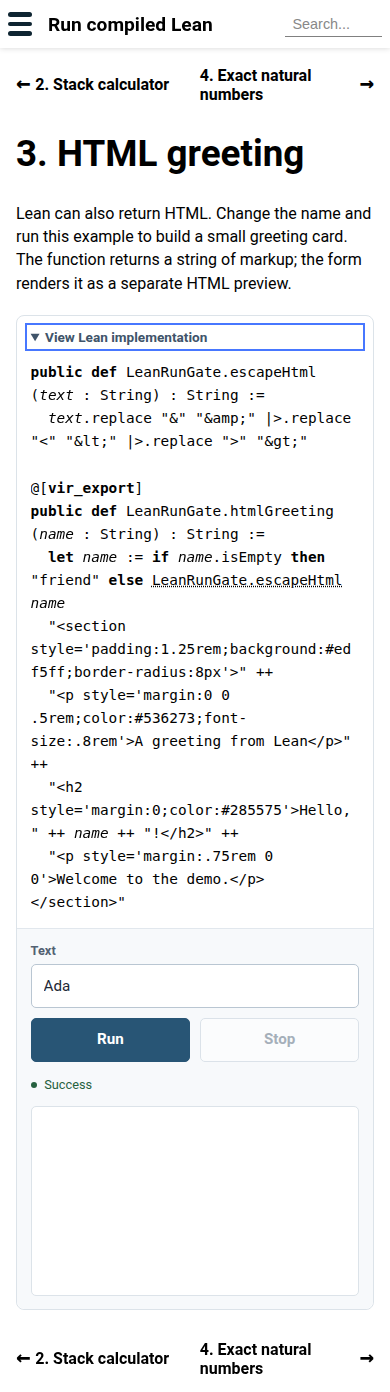
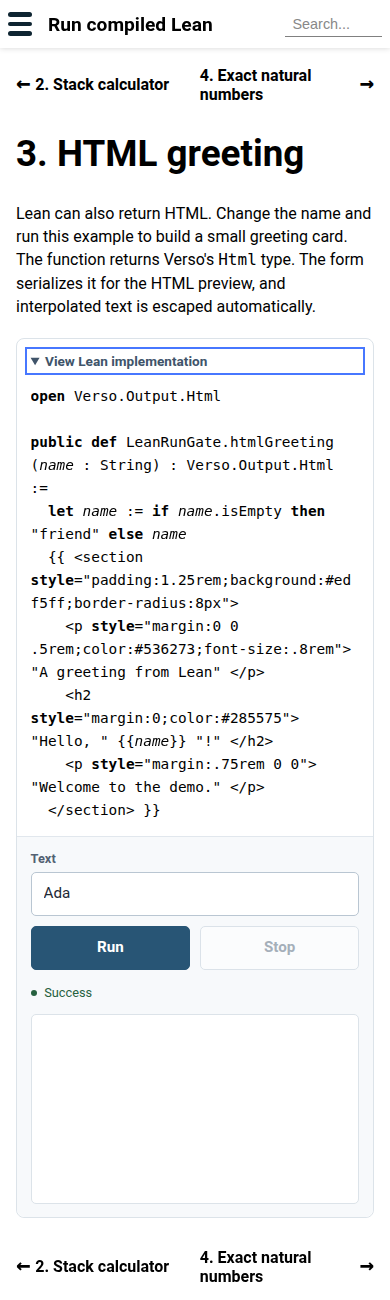
feat: adapt typed HTML entries for Lean Run
This PR adapts public String → Html functions for Lean Run by generating a marked String → String wrapper that calls Verso's Html.asString. Infer HTML presentation for typed entries and use a predictable <entry>.leanRunHtml declaration in the VIR recipe. Retain scalar contracts and the existing sandboxed renderer.

Replace the greeting's manual markup and escaping with Verso HTML syntax. Reuse wrappers for repeated placements, diagnose name conflicts, and reject private, non-executable, and text-presented HTML entries. Document author setup and refresh the live demo, screenshots, evidence, and complete presentation archive.

Validate root lake build, lake test (647 tests plus 10 editor checks), and all 49 native/browser acceptance and mutation checks. Verify typed serialization, escaping, repeated placement, legacy String HTML configuration, compiler contracts, sandbox isolation, cancellation, resource recovery, relocation, invalidation, and restored publication identity.

Changelog-label: changelog-feature

diff --git a/tests/acceptance.py b/tests/acceptance.py
@@ -42,7 +42,7 @@ plan = json.loads((site/'html-multi/lean-run/publication.json').read_text())
 assert plan == json.loads((site/'html-single/lean-run/publication.json').read_text())
 assert plan == json.loads((OUTPUT/'native-only/html-multi/lean-run/publication.json').read_text())
 published = plan['programs']['LeanRunGate.Chapter']
-for declaration, type_name in [('greet', 'String'), ('Stack.run', 'String'), ('htmlGreeting', 'String'), ('double', 'Nat'), ('spin', 'Nat')]:
+for declaration, type_name in [('greet', 'String'), ('Stack.run', 'String'), ('htmlGreeting.leanRunHtml', 'String'), ('double', 'Nat'), ('spin', 'Nat')]:
     contract = published['LeanRunGate.'+declaration]['expectedExport']
     assert contract['declaration'] == 'LeanRunGate.'+declaration
     assert contract['signature']['effect'] == 'pure'
@@ -64,6 +64,8 @@ missing = command(['lake', 'exe', 'lean-run-publication-check', 'missing', '--ou
     str(OUTPUT/'missing-registration')], 'missing-registration', expected=1)
 assert 'LeanRunGate.Chapter:' in missing and 'no published recipe export for LeanRunGate.greet' in missing
 record('missing program registration reports declaration and source provenance')
+command(['lake', 'env', 'lean', 'tests/HtmlAdapter.lean'], 'html-adapter')
+record('typed HTML adapter serializes escaped text and reuses repeated entry placements')
 for name, expected in json.loads((ROOT/'tests/negative/cases.json').read_text()).items():
     output = command(['lake','env','lean',f'tests/negative/{name}.lean'], 'negative-'+name, expected=1)
     assert expected.lower() in output.lower(), output
@@ -115,7 +117,7 @@ with sync_playwright() as p:
     other = form_for('LeanRunGate.greet', 1)
     spin = form_for('LeanRunGate.spin')
     calculator = form_for('LeanRunGate.Stack.run')
-    html_form = form_for('LeanRunGate.htmlGreeting')
+    html_form = form_for('LeanRunGate.htmlGreeting.leanRunHtml')
     assert calculator.locator('details').get_attribute('open') is None
     calculator.locator('summary').press('Enter')
     assert calculator.locator('details').get_attribute('open') is not None
@@ -187,7 +189,7 @@ with sync_playwright() as p:
 
     page.reload()
     page.wait_for_selector('.lean-run[data-enhanced]')
-    html_form = form_for('LeanRunGate.htmlGreeting')
+    html_form = form_for('LeanRunGate.htmlGreeting.leanRunHtml')
     page.route('**/program.irpkg', lambda route: route.fulfill(status=404, body='missing'))
     html_form.locator('[type=submit]').click()
     page.wait_for_function('e => e.dataset.state === "failed"', arg=html_form.element_handle(), timeout=20000)

diff --git a/README.md b/README.md
@@ -20,7 +20,7 @@ For the longer internal-demo example, open <http://127.0.0.1:8794/Stack-calculat
 
 A clean complete copy for sharing is available at `_out/lean-run-demo.zip`. Unpack it, then run `python3 -m http.server 8794 --directory lean-run-demo` and open `/Stack-calculator/` or `/HTML-greeting/`. The recipient needs no Lean installation.
 
-Open <http://127.0.0.1:8794/HTML-greeting/> for a small HTML example. Its Lean function escapes the name and returns markup for a styled greeting card. The usual `String → String` interface is checked, and `(output := "html")` selects the HTML preview explicitly.
+Open <http://127.0.0.1:8794/HTML-greeting/> for a small HTML example. Its Lean function returns Verso’s `Html` type for a styled greeting card. The block generates a scalar export using `Html.asString` and selects the HTML preview automatically. Verso’s HTML syntax escapes interpolated names.
 
 The optional package's test driver uses the repository's Python/Playwright browser tooling. Install `uv` and a Chromium browser first. Tests use installed `google-chrome` when available, otherwise Playwright's installed Chromium:
 
@@ -56,13 +56,34 @@ public def Demo.greet (name : String) : String :=
 ```
 ````
 
-`entry` is mandatory and resolves through Lean's actual declaration identity and the retained example scopes. The selected declaration must carry `@[vir_export]`. VIR classifies its interface; this form admits only pure, monomorphic `String → String` and `Nat → Nat`, each with one explicit argument. Missing, unmarked, private, unsupported, non-executable, and unavailable standard-runtime dependencies have negative tests. Other block arguments, including `-keep` and `+error`, are rejected. Ordinary `lean` blocks retain their existing behavior.
+`entry` is mandatory and resolves through Lean's actual declaration identity and the retained example scopes. Scalar declarations must carry `@[vir_export]`. VIR classifies their interfaces; this form admits pure, monomorphic `String → String` and `Nat → Nat`, each with one explicit argument. A public `String → Verso.Output.Html` function is adapted automatically, without an author-side `@[vir_export]` marker. Missing, unmarked, private, unsupported, non-executable, and unavailable standard-runtime dependencies have negative tests. Other block arguments, including `-keep` and `+error`, are rejected. Ordinary `lean` blocks retain their existing behavior.
 
 The optional `(input := "...")` argument supplies the form's initial text, without running it on page load. For example, the stack calculator uses `(input := "6 7 * 2 +")`. Readers can edit or clear it normally, and ordinary input validation still applies when they run it.
 
 For a longer example, `+collapsed` puts its source in a native expandable “View Lean implementation” panel. It starts closed so the input is easy to reach; readers can open it with a mouse or keyboard, including without JavaScript. The source remains fully present in HTML and TeX, and all declarations are still elaborated and retained normally.
 
-Output defaults to plain text. `(output := "html")` requires a String result and displays the markup in an isolated, sandboxed frame. This preview supports static HTML, inline CSS, and data images; scripts and external embedded resources are disabled. A function interpolating reader input into markup should escape it for the chosen context, as the greeting does for text. Input edits, Stop, pending calls and failures clear the previous preview. Runtime errors remain plain text, and the result-size limit still applies. The frame has a fixed height with scrolling for larger documents.
+Scalar output defaults to plain text. `(output := "html")` requires a String result and displays the markup in an isolated, sandboxed frame. Typed HTML entries select this mode automatically; explicit `output := "text"` is rejected. This preview supports static HTML, inline CSS, and data images; scripts and external embedded resources are disabled. String functions interpolating reader input into markup should escape it for the chosen context. Typed HTML functions can use Verso’s HTML syntax to escape text and attributes automatically; raw HTML nodes remain an explicit author choice. Input edits, Stop, pending calls and failures clear the previous preview. Runtime errors remain plain text, and the result-size limit still applies. The frame has a fixed height with scrolling for larger documents.
+
+For a typed HTML entry, the block generates a public `String → String` wrapper named
+`<entry>.leanRunHtml`, calling `Verso.Output.Html.asString`. Select this wrapper in the
+VIR recipe, while the block's `entry` stays the original function:
+
+````lean
+```leanRun (entry := Demo.card) (input := "Ada")
+open Verso.Output.Html
+public def Demo.card (name : String) : Verso.Output.Html :=
+  {{ <h2> "Hello, " {{name}} "!" </h2> }}
+```
+````
+
+```json
+{ "role": "card", "declaration": "Demo.card.leanRunHtml",
+  "interfaceId": "verso-string-string-v1" }
+```
+
+The generated wrapper receives the usual `vir_export` validation, including its
+compiled dependency closure. Repeated placements reuse it; conflicting declarations
+at that name produce an author diagnostic. Neither VIR's ABI nor the renderer changes.
 
 `leanRun` uses ordinary command elaboration and the shared highlighted-block constructor, retaining source locations, hovers, and example links. The only core Verso change exposes `toHighlightedLeanBlock` for this reuse. The extension support lives in this optional package because Verso's package-wide native precompilation attempts to compile VIR's browser extern symbols as C when VIR is added directly to that package.
 
@@ -113,6 +134,6 @@ Forms group the highlighted source above a quiet input/result area, with aligned
 
 ## Retained evidence
 
-`evidence/results.json` records the 44 final acceptance checks and exact publication identities; `evidence/manual.png` is a browser capture. `evidence/worker-gate.json` retains the independent public API create/call/dispose/recreate gate, and `evidence/validation.txt` records root regression results. The browser checks cover edited inputs, Unicode, exact integers above JavaScript's safe range, repeated placements, real long-running interruption, pending-load cancellation, ignored stale outcomes, missing resources with explicit recovery, root/nested copied publication, disabled JavaScript, TeX, body/helper invalidation, restored identity, compiler-signature publication in both layouts and native-only generation, rejection of mismatched or missing expectations before invocation, duplicate/missing/ambiguous registration, and carrier relocation across source/build roots with unchanged publication. Screenshots supplement those execution checks. `evidence/design-results.json` records the 30 non-mutation interaction checks repeated after the visual refinement; `design-desktop.png`, `design-mobile.png`, and the other `design-*.png` captures show the final layout. Chromium reviews cover 1280px, 390px, and 320px widths, keyboard submission/focus, long exact-Nat wrapping, narrow-screen search, and the JavaScript-disabled fallback. The 44-check campaign in `results.json` additionally covers the calculator preset/trace, arithmetic, errors, bounds, source disclosure, HTML preview/native markup agreement, escaped input, isolation, cleanup, and failure recovery. `calculator-*.png` captures the longer example with its source panel closed and open.
+`evidence/results.json` records the 49 final acceptance checks and exact publication identities; `evidence/manual.png` is a browser capture. `evidence/worker-gate.json` retains the independent public API create/call/dispose/recreate gate, and `evidence/validation.txt` records root regression results. The browser checks cover edited inputs, Unicode, exact integers above JavaScript's safe range, repeated placements, real long-running interruption, pending-load cancellation, ignored stale outcomes, missing resources with explicit recovery, root/nested copied publication, disabled JavaScript, TeX, body/helper invalidation, restored identity, compiler-signature publication in both layouts and native-only generation, rejection of mismatched or missing expectations before invocation, duplicate/missing/ambiguous registration, and carrier relocation across source/build roots with unchanged publication. Screenshots supplement those execution checks. `evidence/design-results.json` records the 30 non-mutation interaction checks repeated after the visual refinement; `design-desktop.png`, `design-mobile.png`, and the other `design-*.png` captures show the final layout. Chromium reviews cover 1280px, 390px, and 320px widths, keyboard submission/focus, long exact-Nat wrapping, narrow-screen search, and the JavaScript-disabled fallback. The 49-check campaign in `results.json` additionally covers the calculator preset/trace, arithmetic, errors, bounds, source disclosure, typed HTML adapter reuse and collision checks, non-executable/private entry rejection, HTML preview/native markup agreement, escaped input, isolation, cleanup, and failure recovery. `calculator-*.png` captures the longer example with its source panel closed and open.
 
 Browser execution is qualified here in Chromium. Firefox, Safari, physical mobile devices, and assistive-technology audits were not exercised. The cached-page lifecycle handler is checked with a persisted `PageTransitionEvent`; actual back-cache restoration across browsers remains unqualified. Porting to current Verso main's Lean 4.35.0-rc3 requires a compatible VIR/runtime release and is not included.
